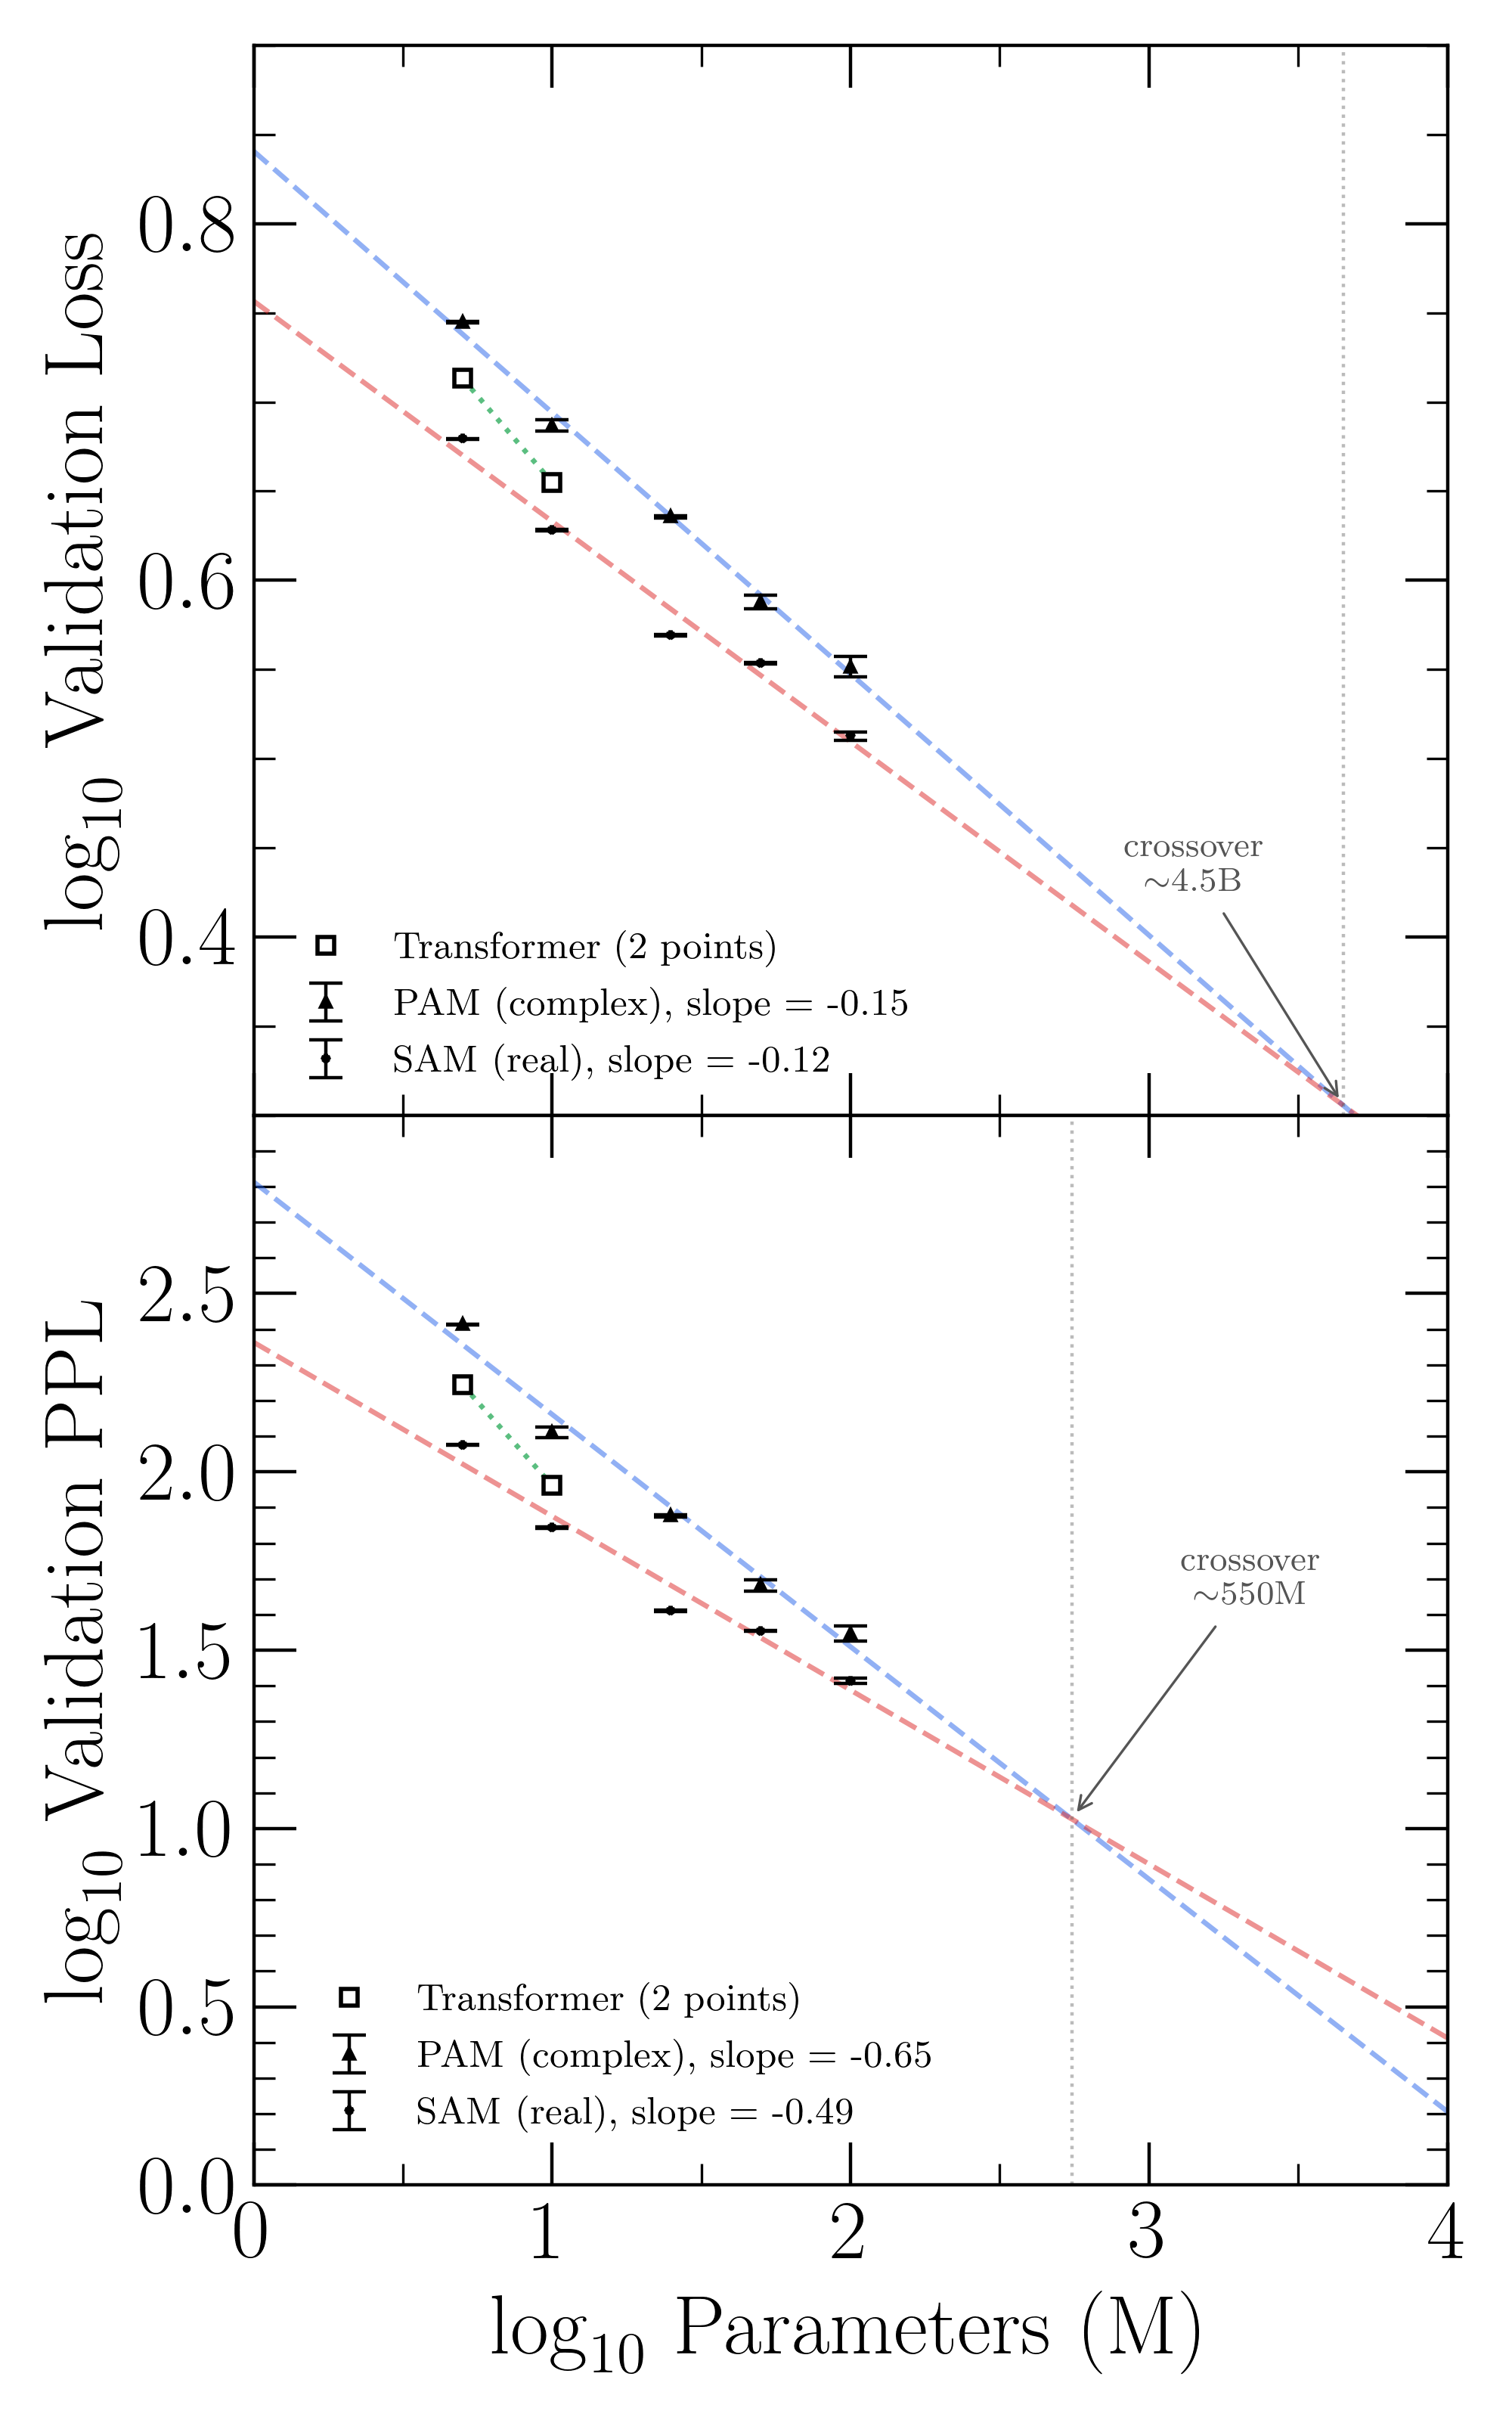
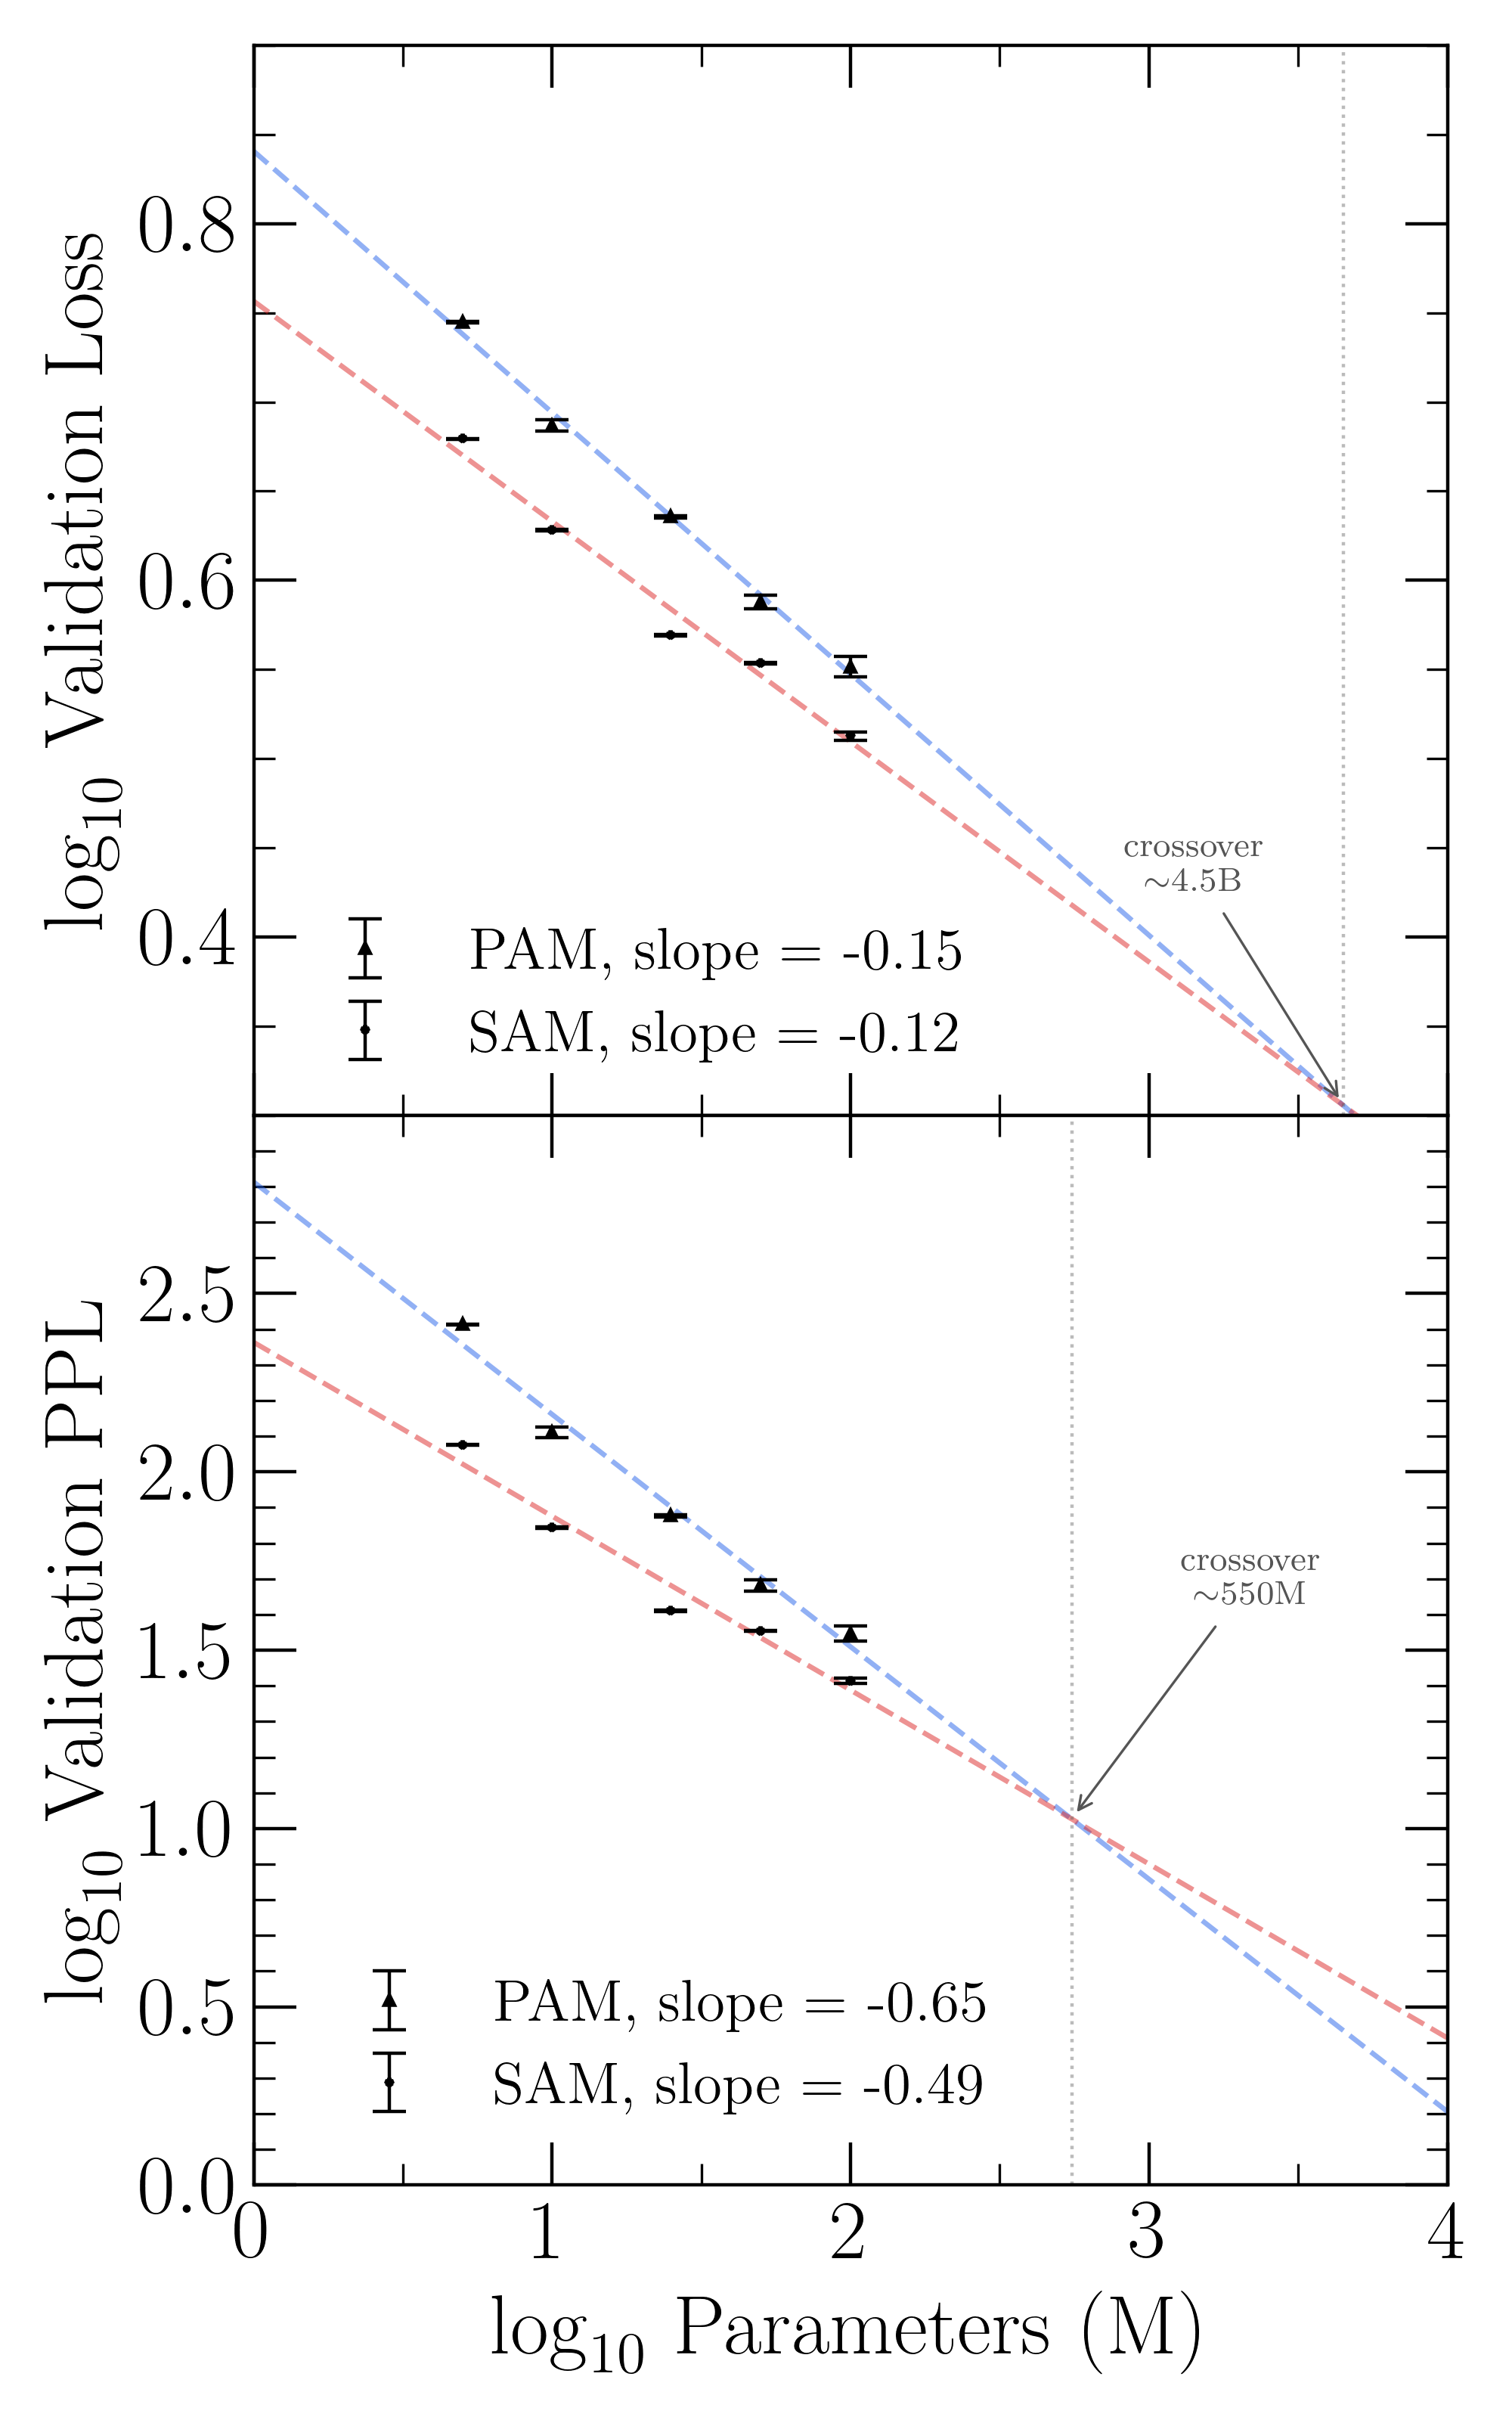
v6/paper: restructure Discussion, reorder figures, reframe synonym probe
- Discussion split into subsections following the astro-paper pattern:
  retrieval mechanism / decoherence in matrix state / loss-space crossover
  and computational costs.
- Results section opener rewritten to summarize without leading with results.
- Methods opener motivates the work in the "In this work, we evaluate..." form.
- Synonym separability probe extended to all five canonical scales
  (5M/10M/25M/50M/100M) and reframed as model characterization rather than
  evidence of an architectural advantage; the trajectories are small and
  non-monotonic for both PAM and SAM.
- Figure reorder: Fig 1 = cmp_val_ppl, Fig 2 = scaling_loglog,
  Fig 3 = phase_coherence, Fig 4 = synonym_scaling.
- Transformer baselines softened to a preliminary note in the Discussion.
- Added WordNet bib entries; dropped CUDA mention; cleaned colons,
  meta-rhetoric, and anthropomorphizing of frameworks.

diff --git a/v6/paper/scripts/compare_complex_real.py b/v6/paper/scripts/compare_complex_real.py
@@ -10,11 +10,13 @@ import os, sys, math, numpy as np
 import mlx.core as mx
 import mlx.nn as nn
 
-os.environ['MATPLOTLIBRC'] = '/Users/caug/npcww/qnlp/ket-nlp/matplotlibrc'
 import matplotlib
 matplotlib.use('Agg')
 import matplotlib.pyplot as plt
 from chroptiks.plotting_utils import makefig, set_aesthetics, scatter as cscat, plot2dhist as chist2d
+matplotlib.rc_file(os.path.join(os.path.dirname(os.path.abspath(__file__)),
+                                '..', 'matplotlibrc'))
+plt.rc('text', usetex=True)
 from qpam_mlx import QPAMModel, RPAMModel
 
 OUTDIR = '/Users/caug/npcww/qnlp/qllm-private/v6/paper/figures'
@@ -40,52 +42,51 @@ def load_rpam():
 # ══════════════════════════════════════════════════════════════
 
 def plot_val_ppl_comparison():
-    """Plot epoch-end val PPL for both models."""
-    print("\n[1] Val PPL comparison...")
+    """Plot per-epoch val loss (top) and val PPL (bottom) at the 10M scale, 2x1
+    sharing x-axis to match the scaling-relation plot style."""
+    print("\n[1] Val loss/PPL comparison at 10M...")
 
-    # Parse QPAM log
-    qpam_epochs, qpam_vals = [], []
-    with open(os.path.join(LOGDIR, 'qpam_mlx_train_v2.log')) as f:
-        for line in f:
-            if 'Epoch' in line and 'complete' in line and 'val PPL=' in line:
-                ep = int(line.split('Epoch ')[1].split(' ')[0])
-                val = float(line.split('val PPL=')[1].split(',')[0])
-                qpam_epochs.append(ep)
-                qpam_vals.append(val)
+    def parse(path):
+        ep, val = [], []
+        with open(path) as f:
+            for line in f:
+                if 'Epoch' in line and 'complete' in line and 'val PPL=' in line:
+                    ep.append(int(line.split('Epoch ')[1].split(' ')[0]))
+                    val.append(float(line.split('val PPL=')[1].split(',')[0]))
+        return np.array(ep, dtype=np.float64), np.array(val)
 
-    # Parse RPAM log
-    rpam_epochs, rpam_vals = [], []
-    with open(os.path.join(LOGDIR, 'rpam_mlx_train.log')) as f:
-        for line in f:
-            if 'Epoch' in line and 'complete' in line and 'val PPL=' in line:
-                ep = int(line.split('Epoch ')[1].split(' ')[0])
-                val = float(line.split('val PPL=')[1].split(',')[0])
-                rpam_epochs.append(ep)
-                rpam_vals.append(val)
+    qpam_ep, qpam_ppl = parse(os.path.join(LOGDIR, 'qpam_10m.log'))
+    rpam_ep, rpam_ppl = parse(os.path.join(LOGDIR, 'rpam_10m.log'))
+    qpam_loss = np.log(qpam_ppl)
+    rpam_loss = np.log(rpam_ppl)
 
-    qpam_epochs = np.array(qpam_epochs, dtype=np.float64)
-    qpam_vals = np.array(qpam_vals)
-    rpam_epochs = np.array(rpam_epochs, dtype=np.float64)
-    rpam_vals = np.array(rpam_vals)
+    fig, (ax_loss, ax_ppl) = plt.subplots(2, 1, figsize=(5, 7), sharex=True,
+                                          gridspec_kw={'hspace': 0})
 
-    fig, ax = makefig()
-    cscat(qpam_epochs, qpam_vals, color='#2166ac', s=50, edgecolor='k', marker='o',
-          fig=fig, ax=ax, makefigax=False, label='PAM (complex)', aspect='auto')
-    ax.plot(qpam_epochs, qpam_vals, '-', color='#2166ac', linewidth=1.0, alpha=0.5)
+    for ax, qpam_y, rpam_y, ylabel in (
+        (ax_loss, qpam_loss, rpam_loss, r'Val loss (nats)'),
+        (ax_ppl,  qpam_ppl,  rpam_ppl,  r'Val PPL'),
+    ):
+        ax.plot(qpam_ep, qpam_y, '-', color='black', linewidth=0.8, alpha=0.7)
+        ax.plot(qpam_ep, qpam_y, '^', color='black', markersize=6,
+                markerfacecolor='black', label='PAM')
+        ax.plot(rpam_ep, rpam_y, '--', color='black', linewidth=0.8, alpha=0.7)
+        ax.plot(rpam_ep, rpam_y, '*', color='black', markersize=8,
+                markerfacecolor='black', label='SAM')
+        ax.set_ylabel(ylabel)
 
-    cscat(rpam_epochs, rpam_vals, color='#b2182b', s=50, edgecolor='k', marker='s',
-          fig=fig, ax=ax, makefigax=False, label='SAM (real)', aspect='auto')
-    ax.plot(rpam_epochs, rpam_vals, '-', color='#b2182b', linewidth=1.0, alpha=0.5)
+    ax_loss.legend(fontsize=14, loc='best', frameon=False)
+    ax_ppl.set_xlabel(r'Epoch')
+    ax_ppl.set_xticks(np.arange(1, int(max(qpam_ep.max(), rpam_ep.max())) + 1))
 
-    ax.legend(fontsize=9, frameon=False)
-    set_aesthetics(fig=fig, ax=ax, makefigax=False,
-                   xlabel='Epoch', ylabel='Val PPL')
-    plt.tight_layout()
-    plt.savefig(os.path.join(OUTDIR, 'cmp_val_ppl.pdf'), dpi=300, bbox_inches='tight')
+    fig.tight_layout()
+    out = os.path.join(OUTDIR, 'cmp_val_ppl.pdf')
+    fig.savefig(out, dpi=300)
+    fig.savefig(out.replace('.pdf', '.png'), dpi=400)
     plt.close()
     print(f"  Saved cmp_val_ppl.pdf")
-    print(f"  QPAM best: {min(qpam_vals):.2f} at epoch {qpam_epochs[np.argmin(qpam_vals)]:.0f}")
-    print(f"  RPAM best: {min(rpam_vals):.2f} at epoch {rpam_epochs[np.argmin(rpam_vals)]:.0f}")
+    print(f"  PAM 10M best PPL: {qpam_ppl.min():.2f} at epoch {qpam_ep[qpam_ppl.argmin()]:.0f}")
+    print(f"  SAM 10M best PPL: {rpam_ppl.min():.2f} at epoch {rpam_ep[rpam_ppl.argmin()]:.0f}")
 
 
 # ══════════════════════════════════════════════════════════════

diff --git a/v6/paper/scripts/plot_synonym_scaling.py b/v6/paper/scripts/plot_synonym_scaling.py
@@ -30,19 +30,34 @@ OUTDIR = '/Users/caug/npcww/qnlp/qllm-private/v6/paper/figures'
 ROOT = '/Users/caug/npcww/qnlp/qllm-private'
 
 QPAM_CFG = {
-    '5M':  dict(dim= 44, num_layers=12, num_heads=2, head_dim=16),
-    '10M': dict(dim= 80, num_layers=12, num_heads=4, head_dim=16),
-    '50M': dict(dim=292, num_layers=12, num_heads=4, head_dim=16),
+    '5M':   dict(dim= 44, num_layers=12, num_heads=2, head_dim=16),
+    '10M':  dict(dim= 80, num_layers=12, num_heads=4, head_dim=16),
+    '25M':  dict(dim=200, num_layers= 6, num_heads=4, head_dim=16),
+    '50M':  dict(dim=292, num_layers=12, num_heads=4, head_dim=16),
+    '100M': dict(dim=384, num_layers=16, num_heads=6, head_dim=64),
 }
 RPAM_CFG = {
-    '5M':  dict(dim= 84, num_layers=11, num_heads=2, head_dim= 8),
-    '10M': dict(dim=140, num_layers=11, num_heads=8, head_dim=16),
-    '50M': dict(dim=496, num_layers=11, num_heads=2, head_dim= 8),
+    '5M':   dict(dim= 84, num_layers=11, num_heads=2, head_dim= 8),
+    '10M':  dict(dim=140, num_layers=11, num_heads=8, head_dim=16),
+    '25M':  dict(dim=344, num_layers= 6, num_heads=4, head_dim=32),
+    '50M':  dict(dim=496, num_layers=11, num_heads=2, head_dim= 8),
+    '100M': dict(dim=576, num_layers=16, num_heads=9, head_dim=64),
 }
-QPAM_CKPT = {s: os.path.join(ROOT, f'checkpoints_qpam_{s.lower()}_mlx', 'best_model.npz')
-             for s in QPAM_CFG}
-RPAM_CKPT = {s: os.path.join(ROOT, f'checkpoints_rpam_{s.lower()}_mlx', 'best_model.npz')
-             for s in RPAM_CFG}
+# 100M checkpoints live under non-canonical names (checkpoints_{q,r}pam_mlx).
+QPAM_CKPT = {
+    '5M':   os.path.join(ROOT, 'checkpoints_qpam_5m_mlx',  'best_model.npz'),
+    '10M':  os.path.join(ROOT, 'checkpoints_qpam_10m_mlx', 'best_model.npz'),
+    '25M':  os.path.join(ROOT, 'checkpoints_qpam_25m_mlx', 'best_model.npz'),
+    '50M':  os.path.join(ROOT, 'checkpoints_qpam_50m_mlx', 'best_model.npz'),
+    '100M': os.path.join(ROOT, 'checkpoints_qpam_mlx',     'best_model.npz'),
+}
+RPAM_CKPT = {
+    '5M':   os.path.join(ROOT, 'checkpoints_rpam_5m_mlx',  'best_model.npz'),
+    '10M':  os.path.join(ROOT, 'checkpoints_rpam_10m_mlx', 'best_model.npz'),
+    '25M':  os.path.join(ROOT, 'checkpoints_rpam_25m_mlx', 'best_model.npz'),
+    '50M':  os.path.join(ROOT, 'checkpoints_rpam_50m_mlx', 'best_model.npz'),
+    '100M': os.path.join(ROOT, 'checkpoints_rpam_mlx',     'best_model.npz'),
+}
 
 
 def count_params(model):
@@ -145,7 +160,7 @@ def main():
     words, syn_pairs, rand_pairs = build_pairs(tokenizer)
     print(f"  {len(syn_pairs)} synonym pairs / {len(rand_pairs)} random pairs")
 
-    scales = ['5M', '10M', '50M']
+    scales = ['5M', '10M', '25M', '50M', '100M']
     results = {'PAM': {}, 'SAM': {}}
 
     for scale in scales:
@@ -182,28 +197,29 @@ def main():
         print(f"  N={n_params:,}  d_sep={d:.4f}±{d_err:.4f}  p={p:.2e}")
         del m
 
-    # Plot: d_sep vs N
-    fig, ax = plt.subplots(figsize=(6.0, 4.2))
-    for arch, marker, label in (('PAM', '*', 'PAM (Re$\\langle z_1^*|z_2\\rangle$)'),
-                                ('SAM', '^', 'SAM (cosine)')):
-        Ns = np.array([results[arch][s]['N'] for s in scales])
+    # Plot: d_sep vs N (matching plot_scaling.py conventions)
+    fig, ax = plt.subplots(figsize=(5, 4))
+    for arch, marker, label in (('PAM', '^', 'PAM (Re$\\langle z_1^*|z_2\\rangle$)'),
+                                ('SAM', '*', 'SAM (cosine)')):
+        Ns_M = np.array([results[arch][s]['N'] / 1e6 for s in scales])
+        log_N = np.log10(Ns_M)
         ds = np.array([results[arch][s]['d'] for s in scales])
         es = np.array([results[arch][s]['d_err'] for s in scales])
-        ax.errorbar(Ns, ds, yerr=es, fmt=marker, color='black',
-                    markersize=10 if marker == '*' else 7,
-                    markerfacecolor='white' if arch == 'SAM' else 'black',
-                    markeredgecolor='black', capsize=3, label=label,
+        ax.errorbar(log_N, ds, yerr=es, fmt=marker, color='black',
+                    markersize=6, ecolor='black', elinewidth=0.8,
+                    capsize=4, capthick=0.8, zorder=5, label=label,
                     linestyle='-' if arch == 'PAM' else '--', linewidth=0.8)
-    ax.set_xscale('log')
-    ax.set_xlabel('parameters $N$')
-    ax.set_ylabel(r'synonym--random separability  $d_{\rm sep}$')
+    ax.set_xlabel(r'$\log_{10}$ Parameters (M)')
+    ax.set_ylabel(r'$d_{\rm sep}$')
+    ax.set_xlim(0, 2.3)
+    ax.set_xticks([0, 0.5, 1, 1.5, 2])
     ax.axhline(0, color='gray', linewidth=0.5, linestyle=':')
-    ax.legend(loc='best', frameon=False, fontsize=9)
+    ax.legend(fontsize=14, loc='upper left', frameon=False)
 
     out = os.path.join(OUTDIR, 'synonym_scaling.pdf')
-    fig.subplots_adjust(left=0.18, right=0.96, top=0.96, bottom=0.14)
+    fig.tight_layout()
     fig.savefig(out, dpi=300)
-    fig.savefig(out.replace('.pdf', '.png'), dpi=300)
+    fig.savefig(out.replace('.pdf', '.png'), dpi=400)
     print(f"\nSaved {out}")
 
     print("\nSummary:")

diff --git a/v6/paper/scripts/analyze_hypotheses.py b/v6/paper/scripts/analyze_hypotheses.py
@@ -150,36 +150,33 @@ def test_phase_semantic_similarity(model, tokenizer):
     print(f"  Synonyms > Random: U={u_syn}, p={p_syn:.4f}")
     print(f"  Antonyms > Random: U={u_ant}, p={p_ant:.4f}")
 
-    # Scatter: coherence by relation type, color-coded
-    fig, ax = makefig()
-    n_syn = len(syn_coh)
-    n_ant = len(ant_coh)
-    n_rand = len(rand_coh)
-
-    # Jitter x positions
-    x_syn = np.random.normal(0, 0.08, n_syn)
-    x_ant = np.random.normal(1, 0.08, n_ant)
-    x_rand = np.random.normal(2, 0.08, n_rand)
-
-    cscat(x_syn, syn_coh, color='#2166ac', s=40, edgecolor='k',
-          fig=fig, ax=ax, makefigax=False, label='Synonyms', aspect='auto')
-    cscat(x_ant, ant_coh, color='#b2182b', s=40, edgecolor='k',
-          fig=fig, ax=ax, makefigax=False, label='Antonyms', aspect='auto')
-    cscat(x_rand, rand_coh, color='#636363', s=40, edgecolor='k',
-          fig=fig, ax=ax, makefigax=False, label='Random', aspect='auto')
-
-    # Means
-    for x_pos, vals, c in [(0, syn_coh, '#2166ac'), (1, ant_coh, '#b2182b'), (2, rand_coh, '#636363')]:
-        ax.plot([x_pos - 0.2, x_pos + 0.2], [np.mean(vals), np.mean(vals)],
-                '-', color=c, linewidth=2)
-
-    ax.set_xticks([0, 1, 2])
-    ax.set_xticklabels(['Synonyms', 'Antonyms', 'Random'], fontsize=10)
-    set_aesthetics(fig=fig, ax=ax, makefigax=False,
-                   ylabel=r'Phase coherence $|\langle z_1^* | z_2 \rangle| / (|z_1||z_2|)$')
-    ax.legend(fontsize=8, frameon=False)
-    plt.tight_layout()
-    plt.savefig(os.path.join(OUTDIR, 'hyp_phase_semantic_coherence.pdf'), dpi=300, bbox_inches='tight')
+    # 3x1 vertical: phase coherence vs phase angle, one panel per relation
+    plt.rcParams.update({'axes.labelsize': 12, 'xtick.labelsize': 11,
+                         'ytick.labelsize': 11})
+    fig, axes = plt.subplots(3, 1, figsize=(5, 7), sharex=True,
+                             gridspec_kw={'hspace': 0})
+    panels = [
+        (axes[0], syn_phase, syn_coh, '#2166ac', 'Synonyms'),
+        (axes[1], ant_phase, ant_coh, '#b2182b', 'Antonyms'),
+        (axes[2], rand_phase, rand_coh, '#636363', 'Random'),
+    ]
+    y_max = max(syn_coh.max(), ant_coh.max(), rand_coh.max()) * 1.1
+    y_min = 0.0
+    for ax, x, y, c, name in panels:
+        ax.scatter(x, y, color=c, s=40, edgecolor='k', linewidth=0.5)
+        ax.axhline(np.mean(y), color=c, linewidth=1.2, linestyle='--', alpha=0.7)
+        ax.set_ylabel('Phase coherence')
+        ax.set_xlim(-np.pi, np.pi)
+        ax.set_ylim(y_min, y_max)
+        ax.text(0.97, 0.92, name, transform=ax.transAxes,
+                ha='right', va='top', fontsize=12)
+    axes[-1].set_xlabel(r'$\angle\langle z_1^* | z_2 \rangle$')
+    axes[-1].set_xticks([-np.pi, -np.pi/2, 0, np.pi/2, np.pi])
+    axes[-1].set_xticklabels([r'$-\pi$', r'$-\pi/2$', '0', r'$\pi/2$', r'$\pi$'])
+    fig.tight_layout()
+    out = os.path.join(OUTDIR, 'hyp_phase_semantic_coherence.pdf')
+    fig.savefig(out, dpi=300)
+    fig.savefig(out.replace('.pdf', '.png'), dpi=400)
     plt.close()
     print("  Saved hyp_phase_semantic_coherence.pdf")
 

diff --git a/v6/paper/plot_scaling.py b/v6/paper/plot_scaling.py
@@ -139,7 +139,7 @@ fig, (ax_loss, ax_ppl) = plt.subplots(2, 1, figsize=(5, 8), sharex=True,
                                       gridspec_kw={'hspace': 0})
 
 markers = {'PAM': '^', 'SAM': '*', 'Transformer': 's'}
-labels = {'PAM': 'PAM (complex)', 'SAM': 'SAM (real)',
+labels = {'PAM': 'PAM', 'SAM': 'SAM',
           'Transformer': 'Transformer'}
 
 log_p_fine = np.linspace(0, 4, 200)
@@ -168,15 +168,6 @@ def draw_panel(ax, fits_dict, transform, ylabel, ylim):
                             capthick=0.8, zorder=5, label=lbl)
                 first = False
         ax.plot(log_p_fine, b * log_p_fine + a, '--', color=c, alpha=0.5, lw=1.2)
-    # Transformer: two points only, no fit. Plot as connected dotted line.
-    trans_pts = [(np.log10(s), np.log10(transform(np.array(raw[(s, 'Transformer')])).mean()))
-                 for s in [5, 10, 25, 50, 100] if (s, 'Transformer') in raw]
-    if trans_pts:
-        xs, ys = zip(*trans_pts)
-        ax.plot(xs, ys, ':', color=colors['Transformer'], alpha=0.7, lw=1.2)
-        ax.plot(xs, ys, markers['Transformer'], color='black', markersize=4,
-                markerfacecolor='white', markeredgecolor='black', zorder=6,
-                label=f"{labels['Transformer']} (2 points)")
     ax.set_ylabel(ylabel)
     ax.set_ylim(*ylim)
 
@@ -221,8 +212,8 @@ ax_ppl.set_xlim(0, 4)
 ax_ppl.set_xticks([0, 1, 2, 3, 4])
 ax_ppl.set_xticks([0.5, 1.5, 2.5, 3.5], minor=True)
 
-ax_loss.legend(fontsize=9, loc=3, frameon=False)
-ax_ppl.legend(fontsize=9, loc='lower left', frameon=False,
+ax_loss.legend(fontsize=14, loc=3, frameon=False)
+ax_ppl.legend(fontsize=14, loc='lower left', frameon=False,
               bbox_to_anchor=(0.02, 0.05),
               bbox_transform=ax_ppl.get_yaxis_transform())
 ax_ppl.set_yticks([0, 0.5, 1, 1.5, 2, 2.5])